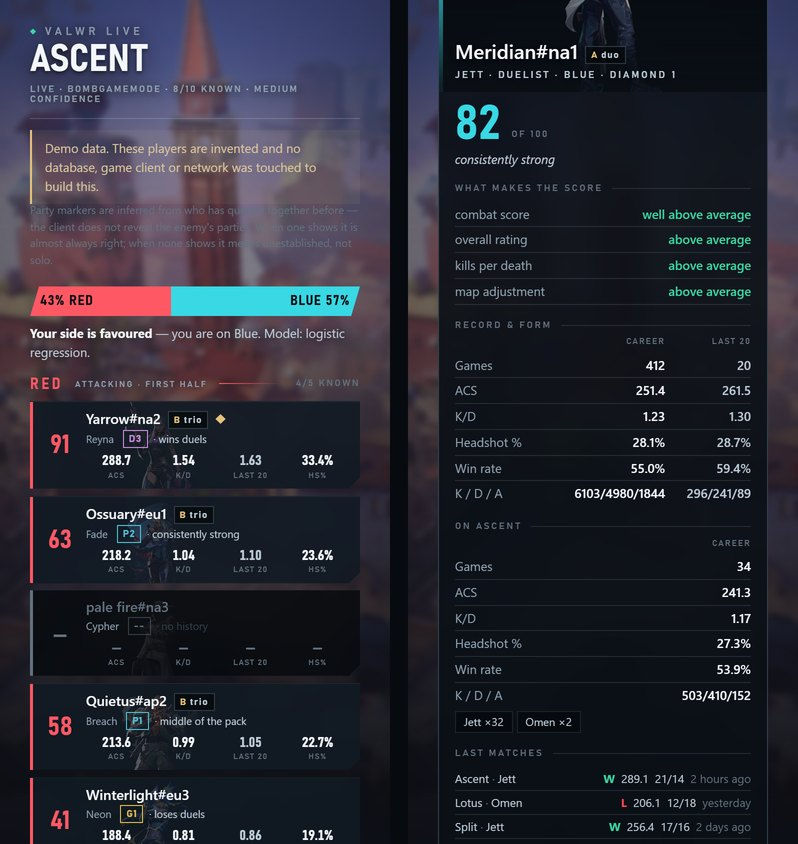
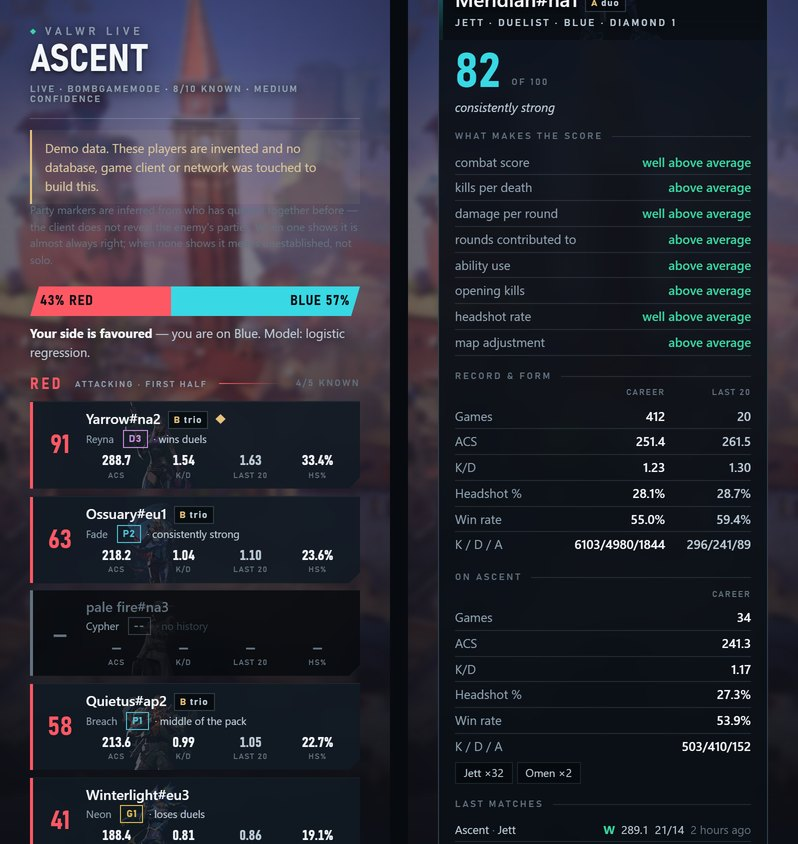
Make the demo and the docs describe the score that actually ships
The demo's breakdown was hand-written against the old four components, and the
published page quoted the old index's accuracy. Both would have shown visitors
a formula the project no longer uses.

The demo now builds its card from `roles.weights_for`, so it cannot drift from
the weights again, and reads its top-1 rate from the index rather than from a
literal -- the same literal that once advertised an accuracy two retrains out
of date.

The docs state the cost plainly rather than burying it: 27.7% against 29.7%,
shipped anyway, with the reasoning and the failed criteria in SCORE-SPEC.md.
DASHBOARD.md also now says what ability use actually measures -- a count of
button presses, correlating with performance at roughly zero while being one of
the most stable things about a player, so it separates players by playstyle
rather than by quality. It carries 11-20% of the weight regardless, because the
score is meant to describe the role.

Images recaptured: the card shows a Duelist's components now, not the old ones.

diff --git a/valwr/dash/demo.py b/valwr/dash/demo.py
@@ -63,6 +63,9 @@ PROFILES = [
 
 # A plausible spread: mostly Platinum with a Diamond and one unranked.
 from valwr.rating import ranks as _r
+from valwr.rating import roles as _roles
+from valwr.rating.role_score import COMPONENT_LABELS as _LABELS
+from valwr.rating.role_score import MIN_MAP_GAMES as _MAP_GATE
 RANKS = [_r.describe(t) for t in
          (18, 16, 0, 15, 13, 20, 16, 0, 15, 12)]
 
@@ -75,7 +78,53 @@ PARTIES = [
 ]
 
 MAP = "Ascent"
-GATE = 6
+GATE = _MAP_GATE
+
+# How far from average each component sits, relative to the player's overall
+# standing. Invented, but not uniform: a demo where every component tells the
+# same story about a player makes the breakdown look decorative.
+_SLANT = {"acs": 1.15, "adr": 1.05, "kd": 0.90, "kda": 0.95, "kast": 0.70,
+          "assists": 0.55, "fb": 0.80, "fd": -0.60, "hs": 1.00,
+          "abilities": 0.45, "map_edge": 0.35}
+
+
+def _band(z):
+    a = abs(z)
+    if a < 0.35:
+        return "about average"
+    if a < 1.0:
+        return "above average" if z > 0 else "below average"
+    return "well above average" if z > 0 else "well below average"
+
+
+def _components(role, agent, score, acs, kd, hs, mg):
+    """The breakdown, built from the real weight tables.
+
+    Generated rather than written out, so the published demo cannot drift from
+    the weights that actually ship -- an earlier hand-written version outlived
+    two changes to the score before anyone noticed it was describing a formula
+    the project no longer used.
+    """
+    weights = _roles.weights_for(role, agent)
+    # A percentile back into roughly the z it came from: 50 -> 0, 90 -> +1.3.
+    base = (score - 50) / 30.0
+    values = {"acs": acs, "adr": round(acs * 0.66, 1), "kd": kd,
+              "kda": round(kd * 1.35, 2), "assists": 0.28, "kast": 0.72,
+              "fb": 0.11, "fd": 0.10, "hs": hs, "abilities": 2.1,
+              "map_edge": round(acs * 0.02, 2)}
+    out = []
+    for name, w in sorted(weights.items(), key=lambda kv: -abs(kv[1])):
+        z = round(base * _SLANT.get(name, 1.0), 2)
+        gated = name == "map_edge" and mg < GATE
+        out.append({
+            "key": name, "label": _LABELS.get(name, name),
+            "value": values.get(name), "z": None if gated else z,
+            "weight": round(w, 4),
+            "contribution": 0.0 if gated else round(w * z, 3),
+            "note": (f"not counted -- {mg} game{'s' if mg != 1 else ''} on this "
+                     f"map, {GATE} needed") if gated else _band(z),
+        })
+    return out
 
 
 def _stats(games, acs, k, d, a, kd, hs, wr):
@@ -132,24 +181,8 @@ def demo_state(conn=None) -> dict:
             counts = mg >= GATE
             entry["detail"] = {
                 "score": score, "raw": 0.0, "reason": entry["reason"],
-                "components": [
-                    {"key": "acs", "label": "combat score", "value": acs,
-                     "z": 1.1, "note": "well above average", "weight": 0.45,
-                     "contribution": 0.5},
-                    {"key": "rating", "label": "overall rating", "value": 1.06,
-                     "z": 0.4, "note": "above average", "weight": 0.25,
-                     "contribution": 0.1},
-                    {"key": "kd", "label": "kills per death", "value": kd,
-                     "z": 0.6, "note": "above average", "weight": 0.15,
-                     "contribution": 0.09},
-                    {"key": "map_edge", "label": "map adjustment",
-                     "value": 0.01, "z": 0.3,
-                     "note": ("above average" if counts else
-                              f"not counted -- {mg} game"
-                              f"{'s' if mg != 1 else ''} on this map, "
-                              f"{GATE} needed"),
-                     "weight": 0.15, "contribution": 0.05 if counts else 0.0},
-                ],
+                "components": _components(
+                    ROLES.get(agent), agent, score, acs, kd, hs, mg),
                 "career": career, "recent": recent, "recent_window": 20,
                 "map": dict(_stats(mg, round(acs * 0.96, 1), int(k * mg / max(games, 1)),
                                    int(d * mg / max(games, 1)),

diff --git a/valwr/dash/server.py b/valwr/dash/server.py
@@ -228,6 +228,19 @@ def _review_payload(match_id: str) -> dict:
             "top1_rate": None, "fresh": False}
 
 
+def _demo_top1() -> float | None:
+    """How often the shipped score picks the best player, from the index.
+
+    None when no index is fitted, and the page then says nothing rather than
+    quoting a figure it cannot stand behind.
+    """
+    from valwr.rating import roleindex
+    try:
+        return roleindex.RoleIndex.load().top1_rate
+    except (FileNotFoundError, ValueError, KeyError):
+        return None
+
+
 def _demo_payload() -> dict:
     """The demo match, with agent UUIDs filled in where a database exists."""
     from valwr.dash.demo import demo_state
@@ -241,8 +254,11 @@ def _demo_payload() -> dict:
     except Exception:                                # noqa: BLE001
         conn = None                                  # lettered tiles, still fine
     try:
+        # Read from the index rather than written here: a literal in this
+        # file is how the live view once advertised an accuracy two retrains
+        # out of date, with nothing to catch it.
         return {"status": "match", "state": demo_state(conn),
-                "top1_rate": 0.296, "fresh": True}
+                "top1_rate": _demo_top1(), "fresh": True}
     finally:
         if conn is not None:
             conn.close()

diff --git a/tools/build_pages_demo.py b/tools/build_pages_demo.py
@@ -35,7 +35,7 @@ ROOT = Path(__file__).resolve().parent.parent
 PAGE = ROOT / "valwr" / "dash" / "static" / "index.html"
 AGENTS = ROOT / "valwr" / "dash" / "static" / "agents"
 MAPS = ROOT / "valwr" / "dash" / "static" / "maps"
-INDEX = ROOT / "models" / "perf_index.json"
+INDEX = ROOT / "models" / "role_index.json"
 REPO_URL = "https://github.com/fahranalam04-cmd/valorant-winrate-predictor"
 
 # Written into every build, and required before an existing directory is

diff --git a/docs/DASHBOARD.md b/docs/DASHBOARD.md
@@ -102,7 +102,7 @@ show dashes rather than guesses.
 
 | On the row | Meaning |
 |---|---|
-| **Score, 0–100** | A percentile against the training population: 70 means likely to outperform 70% of players. Built from combat score, the player rating, K/D and a small map term. |
+| **Score, 0–100** | A percentile **within the player's role**: 70 means ahead of 70% of players on that role, so a Sentinel's 70 and a Duelist's 70 are the same claim. Each role is scored on different things — see [SCORE-SPEC.md](SCORE-SPEC.md). |
 | Name, **YOU** | Your own row is marked. |
 | **A duo / B trio** | A party, lettered so teammates in the same group match. |
 | ◆ | Playing far above their rank — see *The flag* below. |
@@ -251,11 +251,28 @@ between the teams. How it was chosen, and every other model tried, is in
   10,304 held-out matches is a real edge over rank, which scores 50.2%, and it
   holds on matches where both teams' ranks are equal. It is not a forecast to
   bet on.
-- **The score picks the best player on a team 30.5% of the time**, against 20%
+- **The score picks the best player on a team 27.7% of the time**, against 20%
   by chance. A real edge, not a reliable one — the page footer says the same.
-- **The score favours duelists.** It leans on combat score, which duelists earn
-  more of: at identical skill, a duelist main scores well above an initiator
-  main. Read it as "likely to put up numbers", not "better at the game".
+- **It used to be 29.7%.** The per-role score is measurably *worse* at picking
+  the best player than the single formula it replaced, and it was shipped
+  anyway: the choice was that the number should describe what each role is
+  trying to do rather than rank marginally better. docs/SCORE-SPEC.md carries
+  the measurement, including the two criteria it failed.
+- **Almost nothing can do better.** Only 16% of the variation in one match's
+  performance is the player; the rest is the night they had. A score that knew
+  every player's true long-run level exactly would reach about 38%.
+- **Roles are no longer scored on the same things.** A Duelist is damage-led
+  and is the only role scored on opening kills; Controllers lean on KAST,
+  assists and ability use; Sentinels are the only role penalised for dying
+  first. Chamber is scored on a Duelist/Sentinel blend, because his kit is a
+  rifle rather than utility.
+- **Ability use is the weakest input in the score.** It is 11–20% of the weight
+  depending on role, and it is a count of button presses: a drone that spots
+  three players and a drone thrown at a wall are identical in this data. It
+  correlates with actual performance at roughly zero, while being one of the
+  most *stable* things about a player — so it reliably separates players by
+  playstyle rather than by quality. It is in the score because the score is
+  meant to describe the role, not because it predicts.
 - **The flag is not a smurf detector.** It fires on about one player in twenty:
   those rated well above their own rank *and* topping their lobbies far more
   often than the 20% chance rate. Flagged players finish in the top third of a

diff --git a/README.md b/README.md
@@ -264,7 +264,8 @@ after three days unless you tell it not to.
 ```bash
 python -m valwr.model.train --rebuild        # build features, fit, select, save
 python -m valwr.model.analyze                # equal-rank subset, and both README charts
-python tools/build_perf_index.py             # population reference for the 0-100 score
+python tools/build_perf_index.py             # population reference, old single score
+python tools/build_role_index.py             # per-role reference for the 0-100 score
 python tools/validate_potential.py --write-index   # measure and record its hit rate
 python tools/model_metrics.py                # every model, every metric, into docs/MODEL-CHOICE.md
 python tools/improve.py                      # what your own recorded matches say, and what to fix
@@ -302,7 +303,8 @@ figure.
 
 What is on the page, and what each number means, is in
 [docs/DASHBOARD.md](docs/DASHBOARD.md). In short: both teams' odds and what is
-moving them; all ten players by team with rank, party, a 0–100 score, ACS, K/D,
+moving them; all ten players by team with rank, party, a 0–100 score scored
+against others on the same role, ACS, K/D,
 last-20 K/D and headshot rate, competitive games only; and a card per player
 with their record, form and history on this map.
 

diff --git a/docs/SCORE-SPEC.md b/docs/SCORE-SPEC.md
@@ -1,7 +1,15 @@
 # The 0-100 player score: specification
 
-Status: **proposed, not built.** This describes the replacement for the score in
-`valwr/rating/potential.py`. Nothing in the code implements it yet.
+Status: **shipped.** The live view scores players this way; the previous single
+formula in `valwr/rating/potential.py` still provides the rest of the card
+(career, form, this map, freshness, the above-rank flag).
+
+It ships having **failed the criteria in section 10**: 27.7% against the old
+score's 29.7%, and worse on the three roles it was built for. That was a
+deliberate call -- the score is meant to say what each role is trying to do,
+and one match is 84% noise, so the ranking it gives up is small and the thing
+it buys is a number that means the same for a Sage as for a Jett. The
+measurement stays in this document rather than being quietly dropped.
 
 The current score is one formula for everybody: four components
 (`acs` 45%, `rating` 25%, `kd` 15%, `map_edge` 15%), z-scored against the whole
